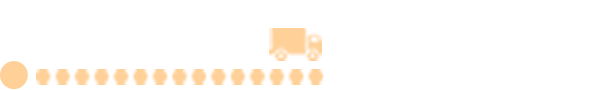
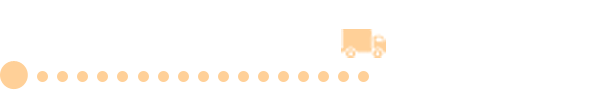
Added image and new css and changes in the following pages.

Changed region(s): [[0.031, 0.7556, 0.6209, 0.9556], [0.4346, 0.3111, 0.5278, 0.6889], [0.5588, 0.3111, 0.652, 0.6444]]

diff --git a/www/css/mobile.css b/www/css/mobile.css
@@ -13,26 +13,28 @@
 .mbpaddingTop76{padding-top:76px !important;}
 .mrg-btm-10Mb{margin-bottom:-10px;}
 .mrg-btm-5Mb{margin-bottom:-5px;}
-.home .mobBodyWrapper.nightBg{background-position: 28% 73% !important; background:url(../images/mb-bg.png) no-repeat center top; -webkit-background-size: cover;-moz-background-size: cover;-o-background-size: cover; background-size: cover; float:left; width:100%;}
+.home .mobBodyWrapper.nightBg{background-position: 28% 73% !important; background:url(../images/homeDaybg.jpg) no-repeat center top; -webkit-background-size: cover;-moz-background-size: cover;-o-background-size: cover; background-size: cover; float:left; width:100%;}
 .home .mobBodyWrapper.dayBg{background-position: 55% 0 !important;}
 .mobBodyWrapper .messageAlert-Wrapper .messageAlert{padding:0 8px;}
 .mobBodyWrapper .messageSlider{display:inline-block; }
-.mobBodyWrapper .messageSlider-left{background:#fff url(../images/mob/message-slider-off-mb.png) no-repeat scroll left 40px; width:100%; min-height:400px;}
+.mobBodyWrapper .messageSlider-left{background:#fff url(../images/mob/message-slider-off-mb.png) no-repeat scroll left 40px; width:100%; min-height:560px;}
 .mobBodyWrapper .messageSlider-Content .largeText{font-size:36px; line-height:37px}
 .mobBodyWrapper .messageSlider-Content-panel div{font-size:13px;}
 .mobBodyWrapper .messageSlider-Content .mediumText{line-height:24px;}
 .mobBodyWrapper .messageSlider-Content .mediumText div{font-size:24px;}
+.mobBodyWrapper .messageSlider-Content .toy-allocation div:last-child{font-size:22px; line-height:20px;}
+.mobBodyWrapper .messageSlider-Content .proposal+p{border:0!important;}
 .mobBodyWrapper .messageSlider-Content .smallText{font-size:11px;}
 .mobBodyWrapper .messageSlider-Content{left:95px; top:20%; width:80%}
 .mobBodyWrapper .messageSlider-Content .deliveredProcessed{min-width:360px; width:100%; margin-bottom:45px;}
-.mobBodyWrapper .messageSlider-Content .stockRecountDiv{width:49%; min-width:170px; max-width:220px;}
+.mobBodyWrapper .messageSlider-Content .stockRecountDiv{width:49%; min-width:200px; max-width:220px;}
 .mobBodyWrapper .messageSlider-Content .order-proposed > li{font-size:13px;}
 .mobBodyWrapper .messageSlider-Content .solutionDiv{width:240px; padding:0 8px;}
 .mobBodyWrapper .messageSlider-Content .solutionDiv > div{padding-left:10px;}
 .mobBodyWrapper .messageSlider-Content .solutionDiv > p{ border-left:2px solid #d9d9d9; padding-left:10px; padding-bottom:10px;}
 
 /*.mobBodyWrapper .messageVeiwMb{margin-bottom:135px;}*/
-.messageVeiwMb .orderListingTop{padding:8px 0 18px 5px; background-color: rgba(48,48,48, 0.7);}
+.messageVeiwMb .orderListingTop{padding:8px 15px 18px; background-color: rgba(48,48,48, 0.7);}
 .messageVeiwMb .orderListingTop li{display:block; width:100%; max-width:none; padding:0; border:none;}
 .messageVeiwMb .orderListingTop li .textMedium{font-size:21px;}
 .messageVeiwMb .orderListingTop li .textSmall{font-size:17px;}
@@ -41,7 +43,7 @@
 .mobBodyWrapper .event-panel{width:100%; color:#fff;}
 .mobBodyWrapper .event-panel .row-top,.mobBodyWrapper  .event-panel .row-bottom{padding:8px 0 5px 5px; min-height:130px}
 .mobBodyWrapper .event-panel .row-top{background-color:rgba(20,25,33,0.7);}
-.mobBodyWrapper .event-panel .row-bottom{background-color:rgba(72,88,128,0.7);}
+.mobBodyWrapper .event-panel .row-bottom{background-color:rgba(72,88,128,0.8);}
 .mobBodyWrapper .event-panel .row-top .date > span{font-size:16px;}
 .mobBodyWrapper .event-panel .row-top .icon-temp{font-size:12px; padding-left:40px; margin-bottom:10px; display:block;}
 .mobBodyWrapper .event-panel .today-date{font-size:29px; font-family:'proxima_novasemibold';}
@@ -53,12 +55,18 @@
 .mobBodyWrapper .event-panel .event{font-size:11px; line-height:17px; padding-right:15px; color:#fff;}
 .mobBodyWrapper .icon-addEvent:before{background-position:-52px -665px; width:40px; height:40px; top:-10px !important}
 .mobBodyWrapper .mMenu{background:url(../images/icon-sprit.png) no-repeat scroll -43px -706px; width:50px; height:38px; display:block; text-indent:-9999px; font-size:0; position:fixed; top:10px; left:0px; z-index:101; margin-top:-10px;}
+.mobBodyWrapper .message-center{background:url(../images/icon-sprit.png) no-repeat scroll -53px -1228px; width:26px; height:20px; display:block; position:absolute; top:10px; right:10px; z-index:101; text-align:center;}
+.mobBodyWrapper .message-center span{border-radius:50%; background:#ff989a; display:inline-block; line-height:20px; padding:0 3px; min-width:20px;}
+
 /********** Hood ************/
 .mobBodyOpacity{display:none; width:100%; height:100%; background-color:#000; opacity:0.7; position:fixed; top:38px; left:0; min-width:310px; z-index:2}
-nav.mobNavigation{width:100%; display:block; max-width:290px; height:100%; background-color:#4b4b4b; position:absolute; top:38px; left:-605px; padding-bottom:40px; z-index:3; min-height: 400px; overflow: auto;}
-
+nav.mobNavigation{width:100%; display:block; max-width:290px; height:100%; background-color:#4b4b4b; position:fixed; top:38px; left:-605px; padding-bottom:40px; z-index:3; height:100%; overflow: auto; bottom:0;}
+.home nav.mobNavigation{top:76px;}
+.mobNavigation-scroll{height:240px; overflow:scroll;}
+nav.mobNavigation .custom-select .styledSelect{padding:0;} 
 .mob-Body{position:relative; display:block; width:100%; float:left;}
-nav.mobNavigation header{background-color:#39445c; height:150px; width:100%; font-size:17px; line-height:39px; color:#536278; padding:8px; }
+nav.mobNavigation header{background-color:#1d2b51; height:130px; width:100%; font-size:17px; color:#536278; padding:8px; }
+nav.mobNavigation header .text-right>p:first-child{height:24px;}
 .menuClose{display:block; width:38px; height:43px; float:right; margin-bottom:20px;}
 .icon-mob-close:before{background-position:-40px -763px; width:39px; height:43px; top:-5px; left:-3px !important;}
 nav.mobNavigation .mobHood,nav.mobNavigation .mob-letsTack{display:block; width:100%; background-color:#4b4b4b; padding-left:8px;}
@@ -66,10 +74,11 @@ nav.mobNavigation footer,nav.mobNavigation .mobHood li,nav.mobNavigation .mobHoo
 nav.mobNavigation .mobHood li a{color:#b6b6b6; font-size:28px; line-height:50px; font-family:'proxima_novasemibold';}
 nav.mobNavigation .mob-letsTack{border-top:1px solid #000; border-bottom:1px solid #000; padding:1px 0;}
 nav.mobNavigation .mob-letsTack > a{color:#b6b6b6; font-size:17px; line-height:20px; border-top:1px solid #7f7f7f; border-bottom:1px solid #7f7f7f; width:100%; display:block; padding:18px 0 18px 8px; color:#fff;}
-nav.mobNavigation footer{background-color:#4b4b4b; position:fixed; bottom:0; max-width:290px;}
-nav.mobNavigation footer p{margin-left:105px; color:#fff; font-size:11px; margin-bottom:4px;}
-nav.mobNavigation .footer-fixed-small{width:100%; max-width:none; background-color:#FFF; height:25px; position:relative;}
-nav.mobNavigation .footer-fixed-small > img{position:absolute; left:12px; top:-20px;}
+nav.mobNavigation footer{background-color:#1d2b51; position:fixed; bottom:0; max-width:290px;}
+nav.mobNavigation footer .blue-text{color:#087dd4;}
+nav.mobNavigation footer p{margin:2px 0 4px 130px; color:#fff; font-size:11px;}
+nav.mobNavigation .footer-fixed-small{width:100%; min-width:290px; background-color:#FFF; height:20px; position:relative;}
+nav.mobNavigation .footer-fixed-small > img{position:absolute; left:12px; top:-18px; width:110px;}
 nav.mobNavigation .footer-fixed-small .footer-fixed-text{margin-left:105px; padding:0}
 nav.mobNavigation .footer-fixed-small .footer-fixed-text h5{font-size:21px; line-height:25px}
 
@@ -140,16 +149,16 @@ nav.mobNavigation .footer-fixed-small .footer-fixed-text h5{font-size:21px; line
 .mobBodyWrapper .icon-arrowDown:before{top:50%; margin-top:-10px}
 
 /************ Mobile Heading *************/
-.mobBodyWrapper .messageHeading{background-color:#0099ff;}
+.mobBodyWrapper .messageHeading{background-color:#0099ff; text-align:center;}
 .home .mobBodyWrapper .messageHeading{background-color:#ff989a;}
-.mobBodyWrapper .mob-Heading,.messageAlert-Wrapper .messageAlert-mb{line-height:38px; padding:0 8px; font-size:14px; width:100%; display:block; text-align:center; height:38px}
+.mobBodyWrapper .mob-Heading,.messageAlert-Wrapper .messageAlert-mb{line-height:38px; padding:0 8px; font-size:14px; display:block; text-align:center; height:38px}
 .messageAlert-Wrapper .messageAlert-mb.text-left{padding-left:50px}
-.mobBodyWrapper .orderHeading .mob-Heading{color:#77c8ff; font-size:23px}
+.mobBodyWrapper .orderHeading .mob-Heading{color:#77c8ff; font-size:23px; display:inline-block;}
 .mobBodyWrapper .messageAlert_Area .bx-controls-direction .bx-next{right:5%}
 .mobBodyWrapper .textTrasform{display:none}
 
 /************ Select Box *************/
-.mobNavigation .custom-select .select{ border:none; min-width:80px; color:#5a687e; font-size:18px}
+.mobNavigation .custom-select .select{ border:none; min-width:80px; color:#5a687e; font-size:18px; height:24px; line-height:normal;}
     
 /****** Tradis CSS **********/
     .tradis .mob-Body{overflow-x: hidden;}
@@ -262,5 +271,4 @@ nav.mobNavigation .footer-fixed-small .footer-fixed-text h5{font-size:21px; line
 .collectionText{font-size: 12px; padding-top: 30px;}
 .profileDescMob .imgDescription h4{font-size: 14px;}
 
-	
 }

diff --git a/www/index.html b/www/index.html
@@ -806,7 +806,7 @@ Center</a></li>
         </div>
       </div>
     </header>
-    <div class="navList">
+    <div class="mobNavigation-scroll"><div class="navList">
       <ul class="mobHood">
         <li><a href="order.html" title="Orders">Orders</a></li>
         <li><a href="non-conformance.html" title="Non-Conformance">Non-Conformance</a></li>
@@ -822,12 +822,12 @@ Center</a></li>
             <div>
               <div class="profileDescMob">
                 <div class="imgDescription">
-                  <h3 class="semiBold">Daryl Olney</h3>
+                  <h3 class="semiBold">Andy Scanion</h3>
                   <h4>Your Sr. Planner MartinBrower</h4>
                 </div>
-                <img src="images/mob/daryl-olney-mob.png" class="img-responsive" title="Daryl Olney" alt="Daryl Olney" /> </div>
+                <img src="images/andy-scanion.jpg" class="img-responsive" title="Daryl Olney" alt="Daryl Olney" /> </div>
               <ul class="profileContDetail mrgBottom10">
-                <li>E: <a href="mailto:Daryl.Olney@martinbrower.com" title="Daryl.Olney@martinbrower.com">Daryl.Olney@martinbrower.com</a></li>
+                <li>E: <a href="mailto:AScanino@martinbrower.com" title="AScanino@martinbrower.com">AScanino@martinbrower.com</a></li>
                 <li>P: <a href="tel:(646) 761-2148" title="(646) 761-2148">(646) 761-2148</a></li>
                 <li>F: <a href="javascript:;" title="(646) 761-2147">(646) 761-2147</a></li>
               </ul>
@@ -840,7 +840,7 @@ Center</a></li>
                   <h3 class="semiBold">Jenna Holmes</h3>
                   <h4>Your Sr. Field Manager MartinBrower</h4>
                 </div>
-                <img src="images/mob/jenna-holmes-mob.png" class="img-responsive" title="Jenna Holmes" alt="Jenna Holmes" /> </div>
+                <img src="images/jenna.jpg" class="img-responsive" title="Jenna Holmes" alt="Jenna Holmes" /> </div>
               <ul class="profileContDetail mrgBottom10">
                 <li>E: <a href="mailto:jenna.homes@martinbrower.com" title="jenna.homes@martinbrower.com">jenna.homes@martinbrower.com</a></li>
                 <li>P: <a href="tel:(646) 761-2148" title="(646) 761-2148">(646) 761-2148</a></li>
@@ -850,13 +850,11 @@ Center</a></li>
           </li>
         </ul>
       </div>
-    </div>
+    </div></div>
     <footer>
-      <p><span class="semiBold">Welcome Back Jim</span> |  log out</p>
-      <div class="footer-fixed-small"> <img class="img-responsive" src="images/mb-logo-footer.jpg" alt="" />
-        <div class="footer-fixed-text">
-          <h5>Sync.</h5>
-        </div>
+      <p><span class="semiBold">Welcome Back Jim</span> <span class="blue-text">|</span>  <a href="#" class="blue-text">log out</a></p>
+      <div class="footer-fixed-small"> <img class="img-responsive" src="images/mb-logo-footer.gif" alt="" />
+        
       </div>
     </footer>
   </nav>
@@ -970,7 +968,7 @@ Center</a></li>
   
   <section class="messageAlert-Wrapper" style="top:38px;">
         <div class="messageHeading orderHeading">
-            <a href="index.html" class="mob-Heading">MB<span class="semiBold clr-white">Sync</span></a>
+          <a href="#" class="message-center"><span>3</span></a>  <a href="index.html" class="mob-Heading">MB<span class="semiBold clr-white">Sync</span></a>
         </div>
     </section>
   
@@ -984,7 +982,7 @@ Center</a></li>
           <p class="textMedium"><span class="textSmall">Expected delivery date:</span> 08.08.14</p>
           <p class="textExtraLarge date mrgBottom10">Today</p>
           <p class="textMedium mrgBottom15"><span class="textSmall">Status: </span> In transit</p>
-          </a> <a href="transit_popup-mob.html" class="learnMore clr-light-yellow padNone ajax100">TRACK IT <br>
+          </a> <a href="transit_popup-mob.html" class="learnMore clr-light-yellow padNone ajax100"><span class="pull-right clr-white">Saturday</span> TRACK IT <br>
           <img src="images/mob/track-it-mb.png" alt="track it" class="img-responsive" /> </a> </li>
       </ul>
     </div>

diff --git a/www/css/responsive.css b/www/css/responsive.css
@@ -30,18 +30,22 @@
 .calendar-month-view .promo-events li{line-height:12px; margin-bottom:5px; padding-top:5px;}
 	.calendar-week-weatherL, .calendar-week-promo-national, .calendar-week-promo-local, .calendar-week-event-local, .calendar-ops-supply-close{min-height:150px;}
 .order-status-map{width:65%;}
-.line2{left:16%; transform: rotate(30deg);  -ms-transform: rotate(30deg); -webkit-transform: rotate(30deg);}
-.line3{transform: rotate(12deg);  -ms-transform: rotate(12deg); -webkit-transform: rotate(12deg); left:11%;}
-.line4{transform: rotate(30deg);  -ms-transform: rotate(30deg); -webkit-transform: rotate(30deg); left:6%;}
-.line5{top:238px; width:136px;}
+.line{top:-164px; left:28%; transform: rotate(34deg);  -ms-transform: rotate(34deg); -webkit-transform: rotate(34deg);}
+.line2{transform: rotate(22deg);  -ms-transform: rotate(22deg); -webkit-transform: rotate(22deg); left:22%;}
+.line3{transform: rotate(32deg);  -ms-transform: rotate(32deg); -webkit-transform: rotate(32deg); left:18.5%;}
+.line4{transform: rotate(30deg);  -ms-transform: rotate(30deg); -webkit-transform: rotate(30deg); left:12%;}
+.line5{top:98px; width:136px;}
 .track-order-arrives .icon-order-disabled:before{left:-58px;}	
-.track-order-arrives{top:252px;}
-.track-order-delivered{top:253px;}
+.track-order-arrives{top:112px;}
+.track-order-delivered{top:113px;}
 .track-order-delivered .icon-order-disabled:before{top:-101px;}
 .track-order-dispatched{left:35%;}
 .tradis-resources h3{height:84px;}
 .tradis-resources p{min-height:240px;}
-    
+.track-order-picked{left:24%; top:32px;}
+.track-order-closed{left:20%;}  
+.track-order-proposed{left:13%;}
+.track-order-loaded{left:28%; top:-50px;} 
 }
 /* Css for mobile end*/
 
@@ -86,6 +90,7 @@
 .footer-fixed-large{width:69%;}
 .track-order-delivered{right:20px;}
 .track-order-arrives{right:20%;} 
+.line5{right:112px;}
 }
 
 @media (max-width: 980px) {

diff --git a/www/css/style.css b/www/css/style.css
@@ -461,7 +461,7 @@ footer{display:block; width:100%;}
 /********** Footer End*****************/
 
 /********* popUp ***************/
-.popUp { width:100%; min-height:620px; background:url(../images/order-status-large-icon.gif) 0 50% no-repeat; position:relative; }
+.popUp { width:100%; min-height:560px; background:url(../images/order-status-large-icon.gif) 0 50% no-repeat; position:relative; }
 .popUp .heading{display:block; width:100%; color:#fff; font-size:11px; background-color:#12234f; padding:0 10px}
 .popUp .heading span{font-size:33px; line-height:30px}
 .popUp .heading span+span{ color:#6c7792; font-size:24px; border-left:#546080 solid 1px; margin-left:10px; padding-left:10px;}

diff --git a/www/transit_popup.html b/www/transit_popup.html
@@ -61,7 +61,7 @@
     <div class="track-order-arrives">Order<br />
       arrives<br />
       <p class="fnt-11 text-right">today<br />
-        18:36</p>
+        2:36pm</p>
       <i class="icon-order-disabled"></i></div>
     <div class="track-order-delivered">Order<br />
       delivered<br />

diff --git a/www/transit_popup-mob.html b/www/transit_popup-mob.html
@@ -40,7 +40,7 @@
             </li>
         	<li class="disabled">
             	Order<br>
-				<span class="semiBold">in transit</span>
+				<span class="semiBold">arrives</span>
             </li>
         </ul>
     </div>
